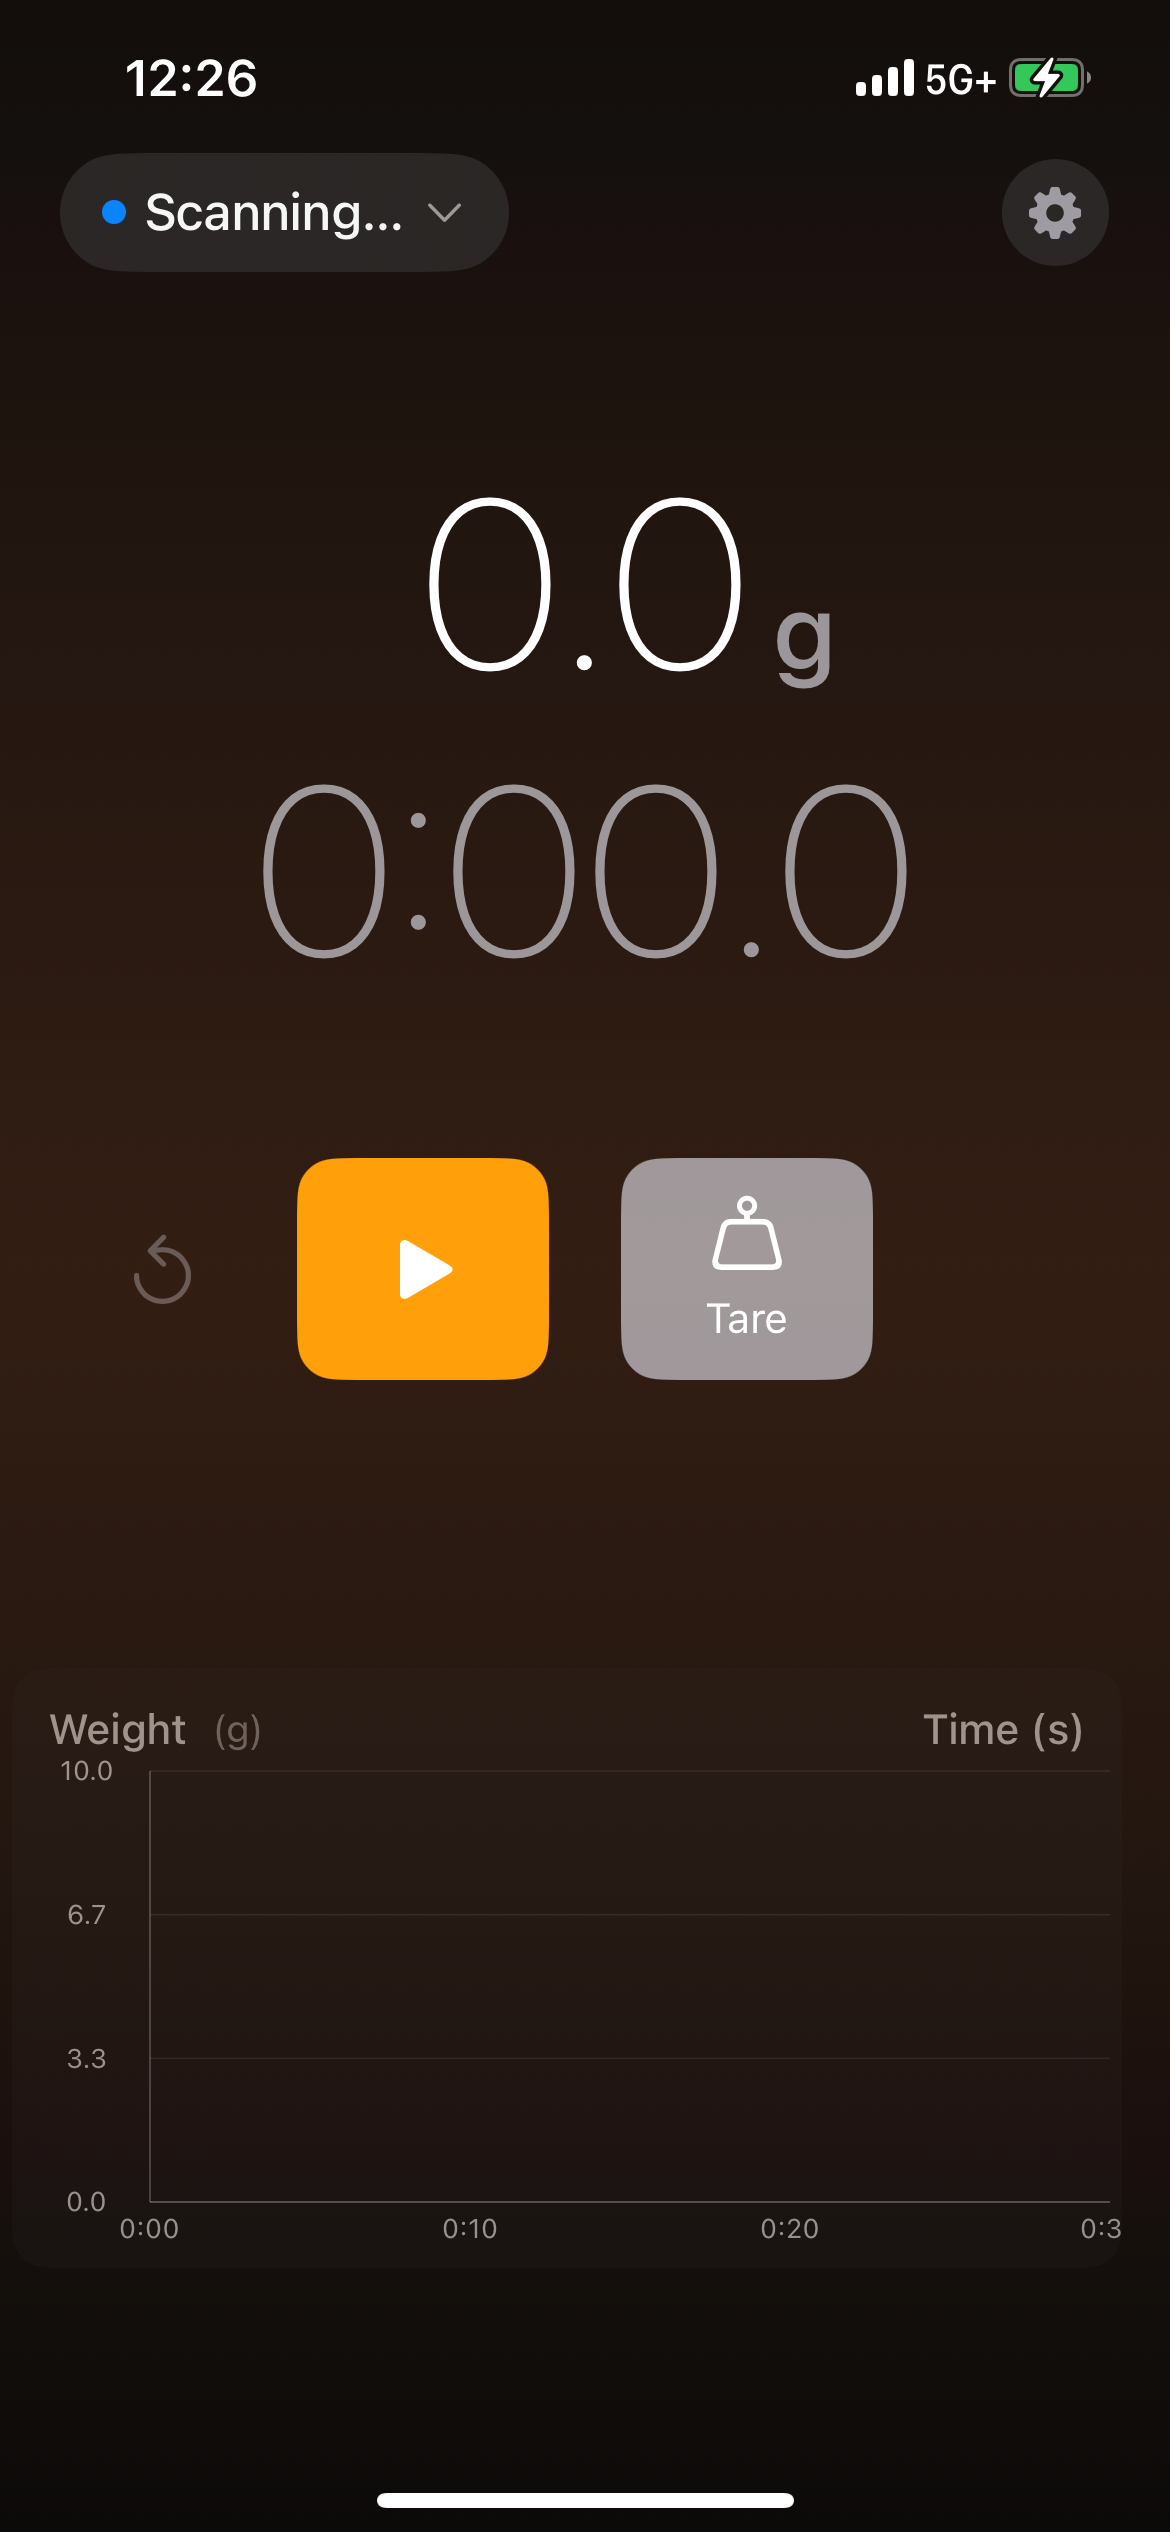
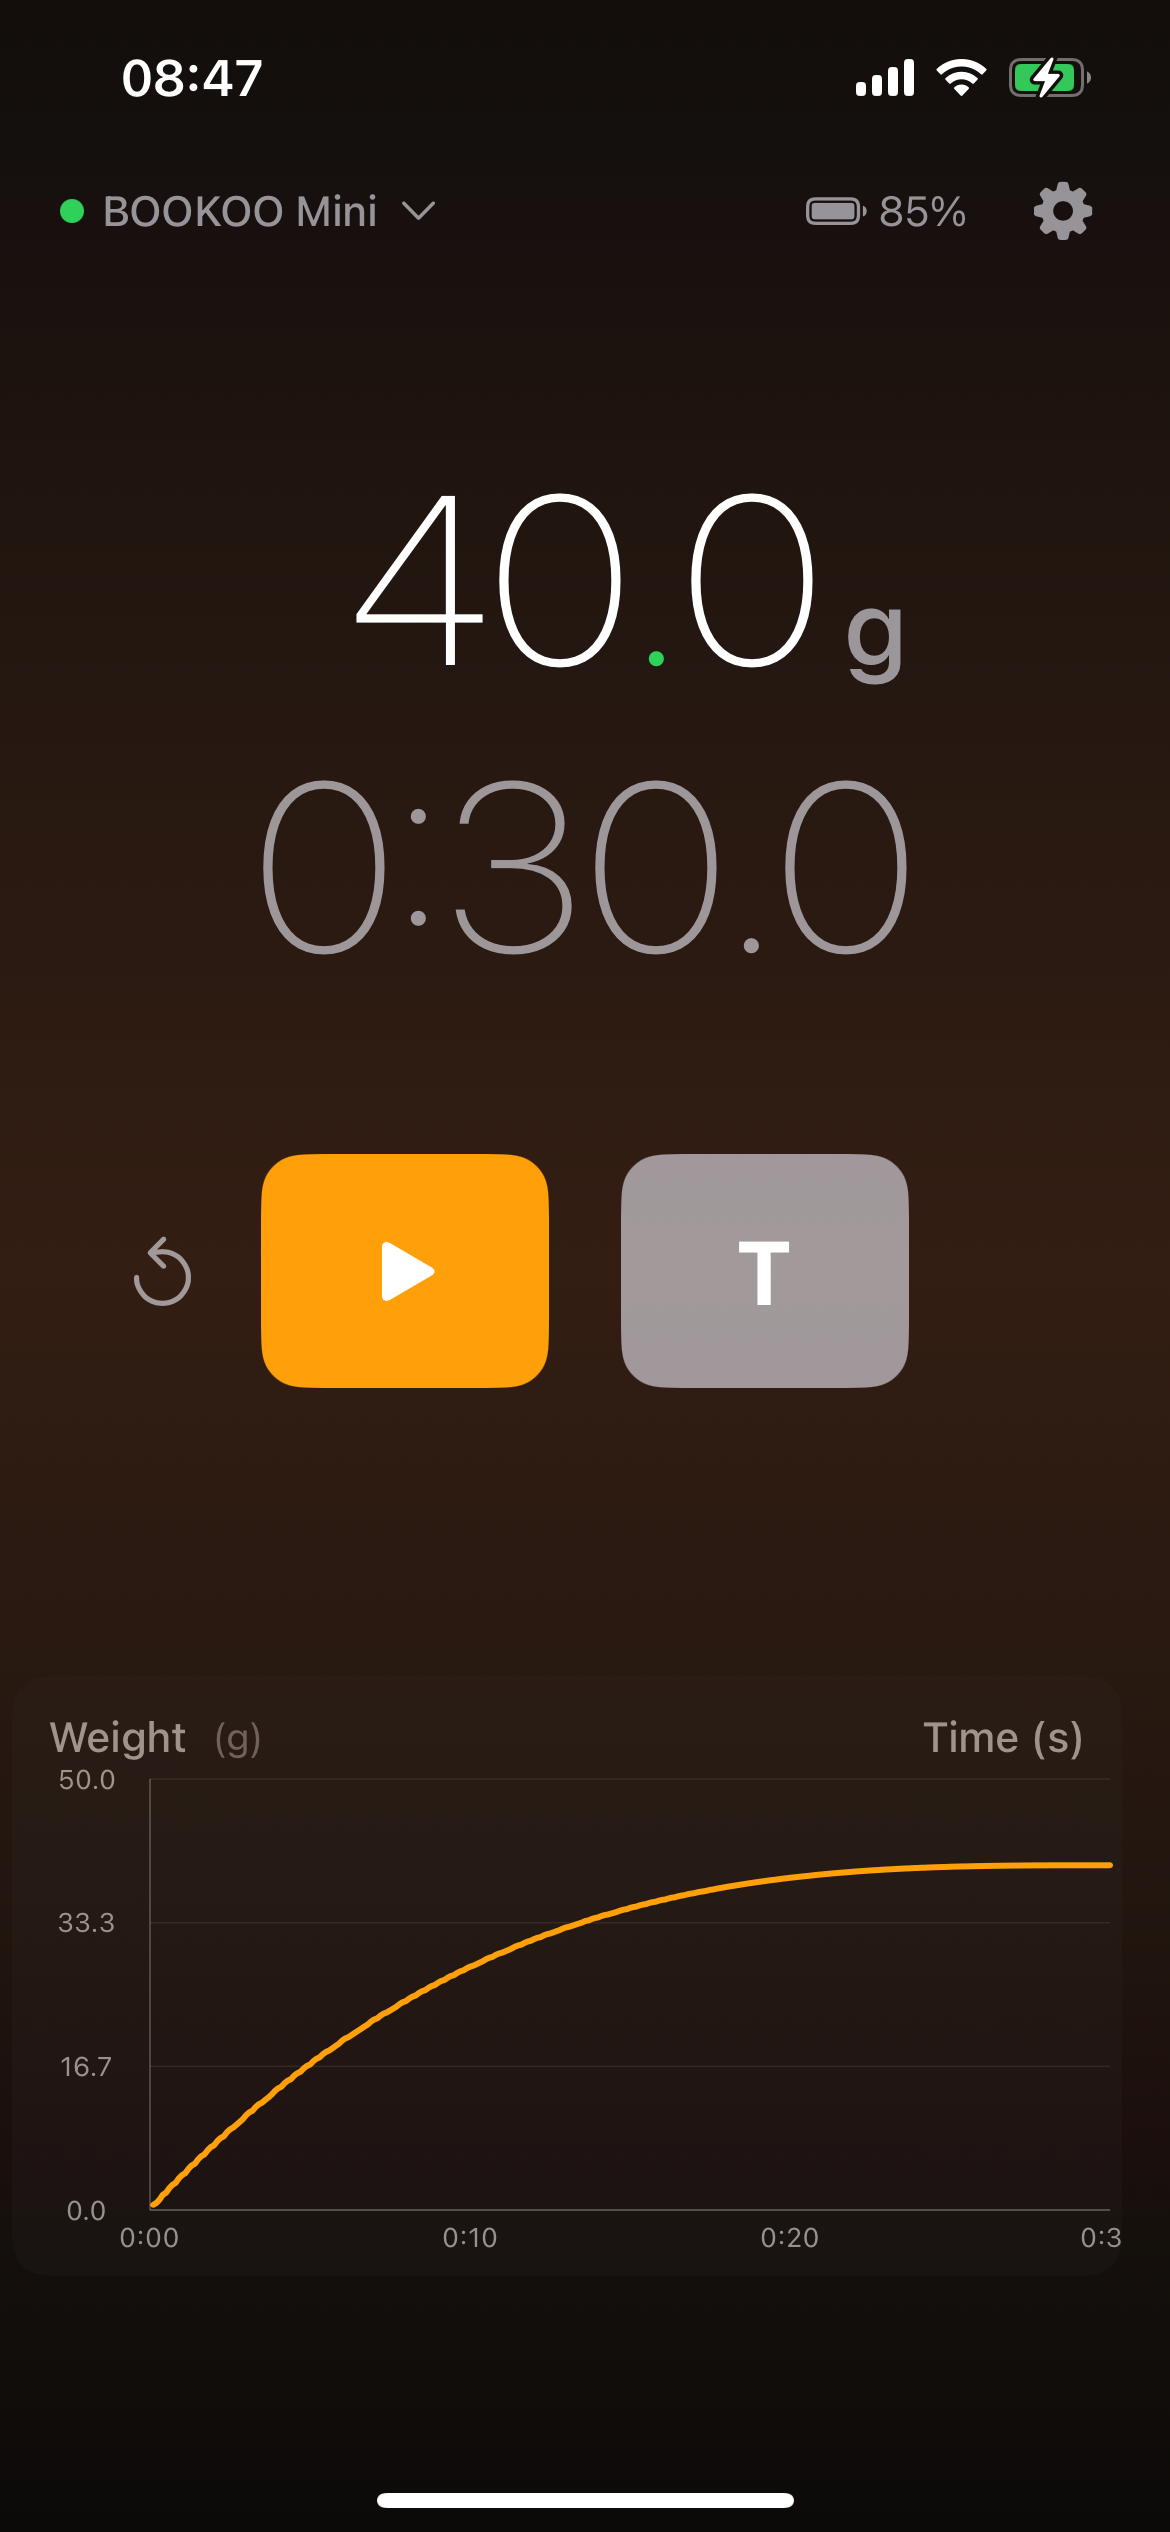
chore: update screenshot and README with current features

diff --git a/README.md b/README.md
@@ -4,12 +4,13 @@ The apps I found for the Bookoo scale were overcomplicated and awkward to use. I
 
 ## Features
 
-- **BLE connection** to Bookoo Mini Scale (official protocol)
+- **BLE connection** to Bookoo Mini Scale (official protocol) with auto-reconnect
 - **Live weight display** — grams or ounces, large readable digits
-- **Brew timer** — start/stop/reset with 0.1s precision
+- **Brew timer** — start/stop/reset with 0.1s precision, or auto-start on pour detection
 - **Tare & Brew button** — one tap to zero the scale and start the timer
-- **Stability indicator** — shows when weight settles
-- **Battery level** from the scale
+- **Auto-detect pour** — optionally auto-starts the timer when weight crosses 0.1g
+- **Battery level** from the scale with low-battery color warnings (yellow ≤20%, red ≤10%)
+- **ScaleSimulator** — companion macOS app that simulates a Bookoo scale for testing
 
 ## Screenshots
 
@@ -37,9 +38,10 @@ The app stays installed for 7 days — just rebuild to refresh.
 
 booBud communicates with the Bookoo Mini Scale over Bluetooth Low Energy using the [official open-source protocol](https://github.com/BooKooCode/OpenSource):
 
-- **Service UUID**: `0xFFE0`
+- **Service UUID**: `0xFFE0` (primary)
 - **Weight notifications**: characteristic `0xFF11` (20-byte packets with grams, flow rate, battery, timer)
-- **Commands**: characteristic `0xFF12` (tare, timer start/stop/reset)
+- **Commands**: characteristic `0xFF12` (tare, timer start/stop/reset, mode switch)
+- **Device Name**: characteristic `0xFF1E` (readable, used for authoritative display name)
 
 ## Project Structure
 
@@ -49,9 +51,12 @@ booBud/
 ├── BLE/              # BookooProtocol + ScaleBLEController
 ├── Models/           # WeightReading, WeightUnit, BrewTimerState
 ├── ViewModels/       # ScaleViewModel (@Observable state)
-├── Views/            # ContentView, WeightDisplay, BrewTimer, Controls, DeviceDiscovery
+├── Views/            # ContentView, WeightDisplay, BrewTimer, Controls, DeviceDiscovery, Settings
 ├── Resources/        # Info.plist (BLE permissions)
 └── Assets.xcassets/  # App icon, accent color
+
+ScaleSimulator/
+└── ScaleSimulator/   # macOS BLE peripheral companion — simulates a Bookoo scale for testing
 ```
 
 ## License